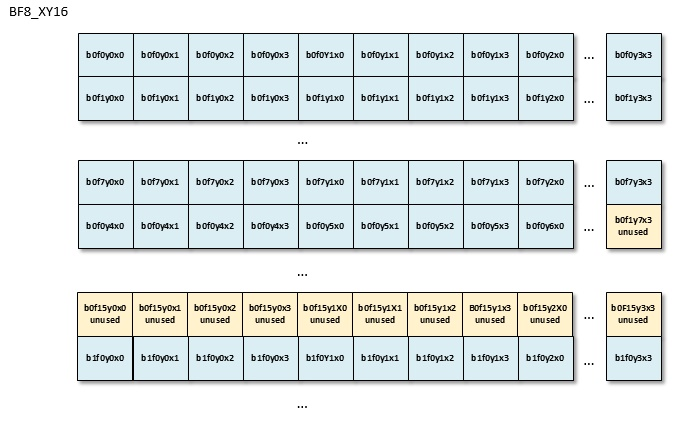
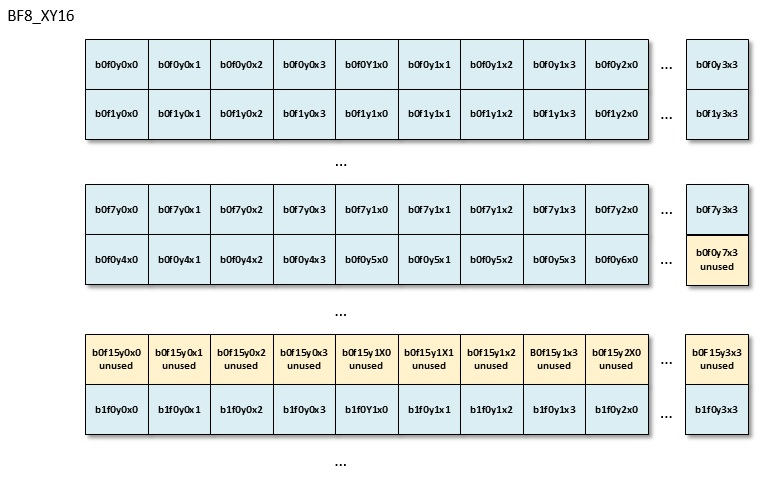
changes after CR

diff --git a/api/C/cldnn.h b/api/C/cldnn.h
@@ -244,8 +244,8 @@ typedef enum /*:int32_t*/
                                   ///< \n \image html bs_xs_xsv8_bsv16.jpg
     cldnn_format_bs_x_bsv16,    ///< format used only for fully connected weights fp16 batch=1 : bs - batch slice (responses slice), bsv16 - 16 values of single batch slice, x - flattened plane of (fyx).
                                 ///< \n \image html bs_x_bsv16.jpg
-    cldnn_format_bf8_xy16,    ///< format used only for fully connected weights fp16 batch=1 : bs - batch slice (responses slice), bsv16 - 16 values of single batch slice, x - flattened plane of (fyx).
-                                ///< \n \image html bs_x_bsv16.jpg
+    cldnn_format_bf8_xy16,      ///< format used only for convolution 1x1 input, xy aligned to 16, f aligned to 8
+                                ///< \n \image html bf8_xy16.jpg
     cldnn_format_format_num,    ///< number of format types
     cldnn_format_any = -1
 } cldnn_format_type;
